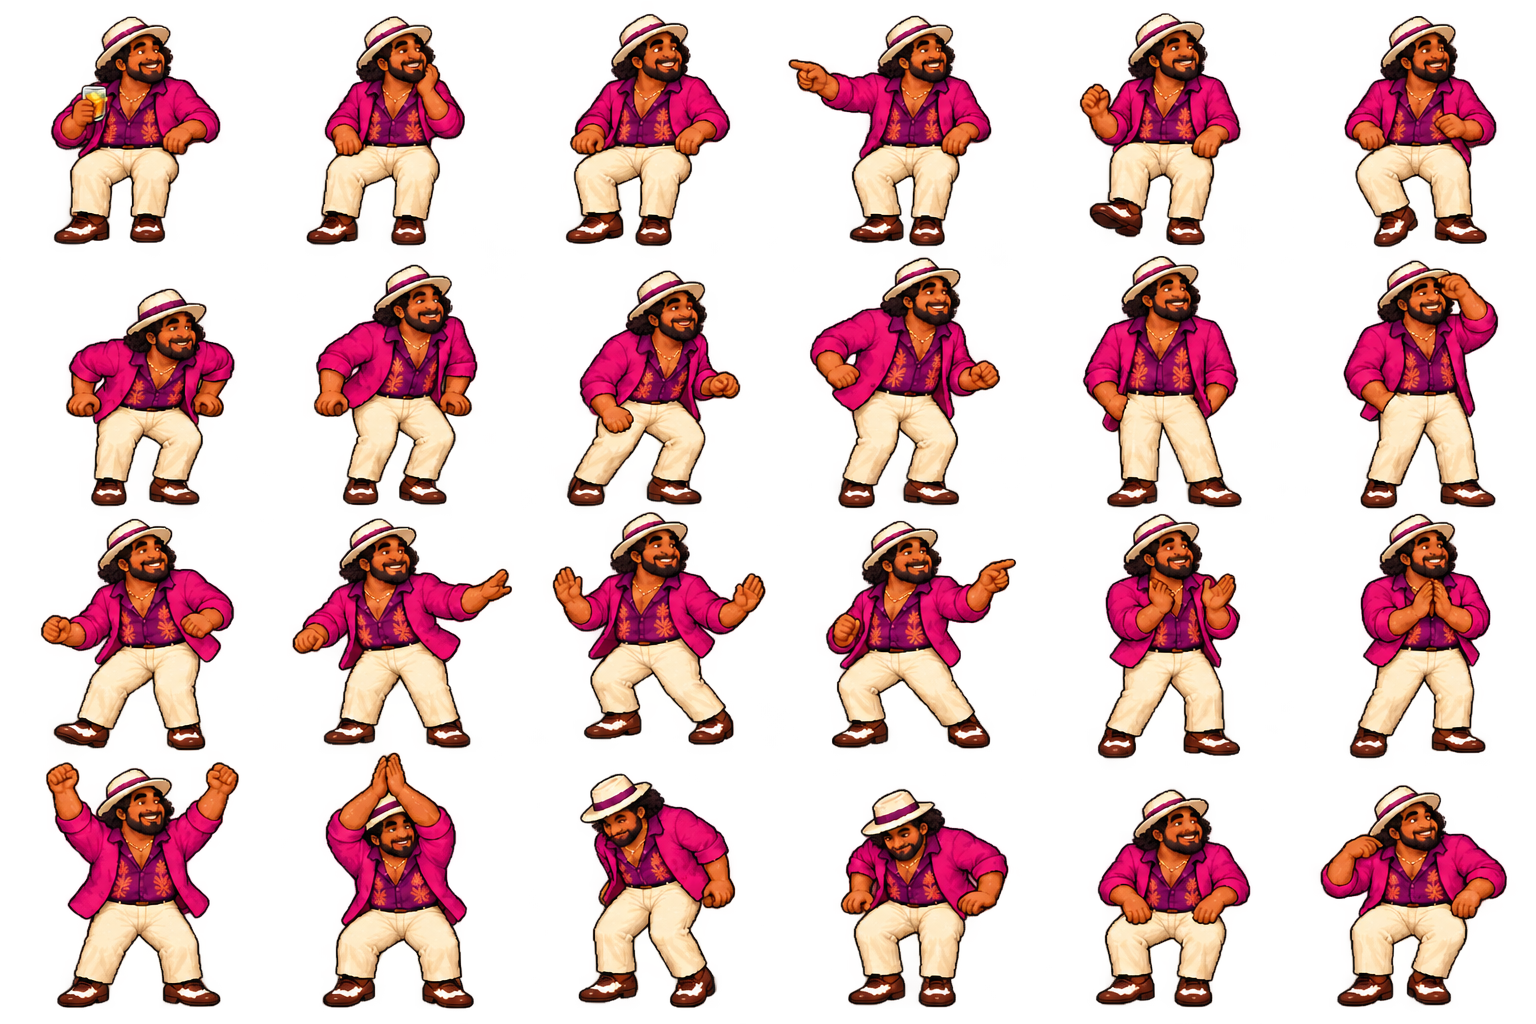
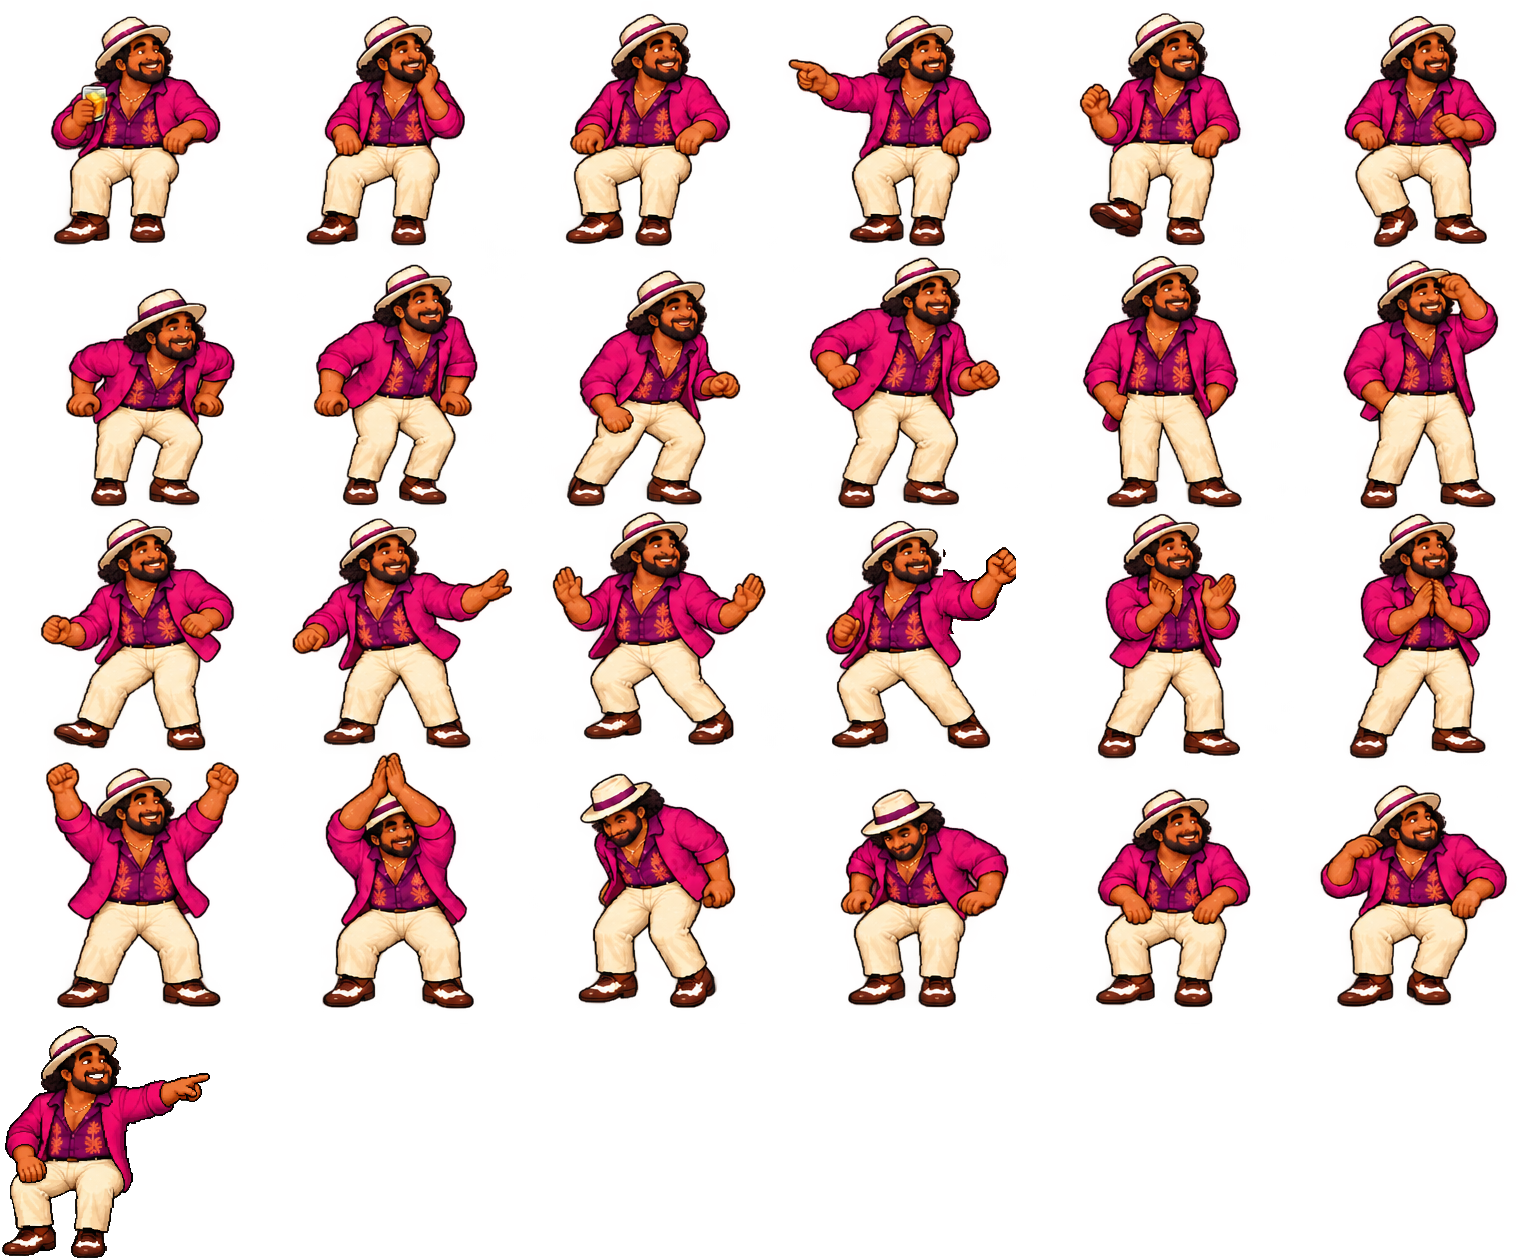
art: review fixes to the original guests: no pointing in the step cycle, the host points at the fight, the man's legs uncrossed, chair stubs and doubled shoes gone
Repaired from the accepted frames with Qwen, one change each. Clip names are unchanged. Frames redrawn whole move to a new strip at the bottom of their atlas, at their old height.

Claude-Session: https://claude.ai/code/session_01ALj27RqsABne97dpmb7emV
Tillandsias-Host: macuahuitl
Generated-By: tool=claude-code

diff --git a/tool/art/pipeline/repair_frames.py b/tool/art/pipeline/repair_frames.py
@@ -21,6 +21,7 @@ from pathlib import Path
 
 import numpy as np
 from PIL import Image
+from scipy import ndimage as ndi
 
 sys.path.insert(0, str(Path(__file__).resolve().parent))
 from run_jobs import GRAPH, LORA, Lane  # noqa: E402
@@ -102,6 +103,8 @@ def aligned(raw: Image.Image, im: Image.Image, box: tuple[int, int, int, int]) -
     src = np.asarray(im).astype(np.int32)
     keep = np.ones(src.shape[:2], bool)
     keep[box[1]:box[3], box[0]:box[2]] = False
+    if keep.mean() < .4:  # A repair of most of the frame: the rest of the figure still lines it up.
+        keep[:] = True
     best = None
     for dy in range(-12, 13, 1):
         for dx in range(-12, 13, 1):
@@ -119,6 +122,7 @@ def compose(run: str, sheet: str | None) -> None:
     jobs = json.loads((ROOT / "art_runs" / run / "repairs.json").read_text())
     rows = []
     atlases: dict[str, Image.Image] = {}
+    cursors: dict[str, tuple[int, int, int]] = {}
     for name, spec in jobs.items():
         if "pick" not in spec:
             continue
@@ -133,6 +137,54 @@ def compose(run: str, sheet: str | None) -> None:
         box = (int(f[0] * w), int(f[1] * h), int(f[2] * w), int(f[3] * h))
         raw = Image.open(CACHE / run / "raw" / name / f"{spec['pick']}.png")
         new, dx, dy = aligned(raw, source, box)
+        if spec.get("append"):
+            # A new pose wider than its old rect: a fresh strip at the bottom of the atlas, with its own rect and anchor.
+            W, H = CANVAS
+            ax0 = a["frames"][spec["frame"]]["anchor"][0]
+            x0 = (W - source.width * SCALE) // 2 + dx * SCALE // 2
+            y0 = H - source.height * SCALE - 48 + dy * SCALE // 2
+            arr = np.asarray(raw.convert("RGBA")).astype(np.uint8)
+            xs = np.arange(x0 % SCALE + SCALE // 2, W, SCALE)
+            ys = np.arange(y0 % SCALE + SCALE // 2, H, SCALE)
+            whole = arr[np.ix_(ys, xs)].copy()
+            whole[..., 3] = np.where(whole[..., 3] >= 128, 255, 0)
+            labels, count = ndi.label(whole[..., 3] > 0)
+            if count > 1:  # Qwen copies a stray piece of a neighbour along with the frame.
+                sizes = ndi.sum(whole[..., 3] > 0, labels, range(1, count + 1))
+                whole[labels != 1 + int(np.argmax(sizes))] = 0
+            whole[whole[..., 3] == 0] = 0
+            pic = Image.fromarray(whole, "RGBA")
+            l, t, r, b = pic.getbbox()
+            ox, oy = (x0 - x0 % SCALE) // SCALE, (y0 - y0 % SCALE) // SCALE
+            for cx, cy, cw, ch in spec.get("clear", []):
+                pw, ph = r - l, b - t
+                whole[t + int(cy * ph):t + int(ch * ph), l + int(cx * pw):l + int(cw * pw)] = 0
+            pic = Image.fromarray(whole, "RGBA")
+            l, t, r, b = pic.getbbox()
+            # Qwen draws a little larger. Back to this frame's own height, so nobody grows between drawings.
+            fit = source.height / (b - t)
+            cut = pic.crop((l, t, r, b)).resize((round((r - l) * fit), source.height), Image.NEAREST)
+            shift = (ax0 + ox - l) * fit
+            pic, l, t, r, b = cut, 0, 0, cut.width, cut.height
+            px, strip, shelf = cursors.get(str(path), (2, atlas.height + 2, 0))
+            if px + (r - l) + 2 > atlas.width:
+                px, strip, shelf = 2, strip + shelf + 2, 0
+            shelf = max(shelf, b - t)
+            grown = Image.new("RGBA", (atlas.width, max(atlas.height, strip + shelf)), (0, 0, 0, 0))
+            grown.paste(atlas, (0, 0))
+            grown.paste(pic.crop((l, t, r, b)), (px, strip))
+            atlases[str(path)] = atlas = grown
+            cursors[str(path)] = (px + (r - l) + 2, strip, shelf)
+            doc = json.loads((folder / "manifest.json").read_text())
+            entry = doc["atlases"][spec["atlas"]]
+            entry["frames"][target]["rect"] = [px, strip, r - l, b - t]
+            # Every guest frame's anchor sits on its feet, at the bottom of its rect.
+            entry["frames"][target]["anchor"] = [round(shift, 1), b - t]
+            entry["imageHeight"] = grown.height
+            (folder / "manifest.json").write_text(json.dumps(doc, indent=1, ensure_ascii=False) + "\n")
+            rows.append((name, before, pic.crop((l, t, r, b))))
+            print(f"{name}: {spec['atlas']}/{target} appended at y {strip}")
+            continue
         cut = new[box[1]:box[3], box[0]:box[2]].copy()
         cut[..., 3] = np.where(cut[..., 3] >= 128, 255, 0)
         cut[cut[..., 3] == 0] = 0
